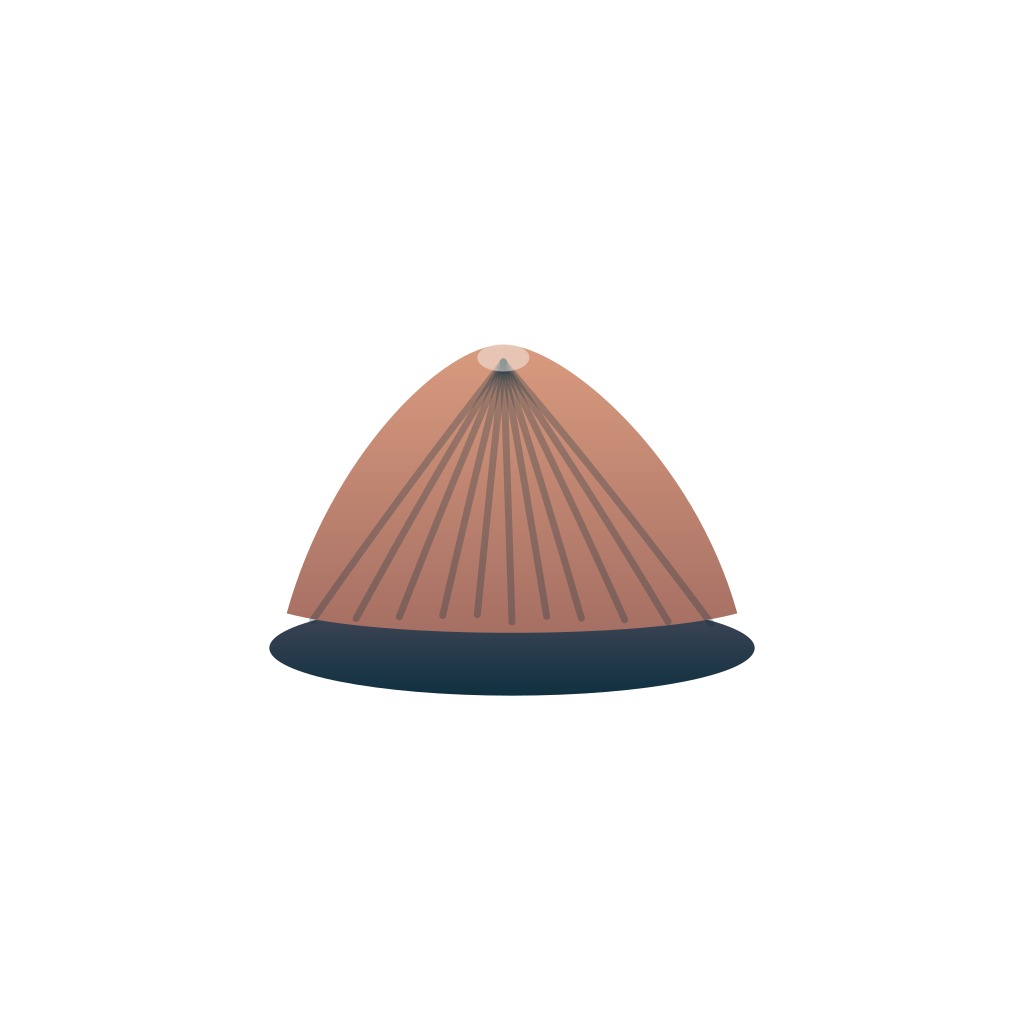
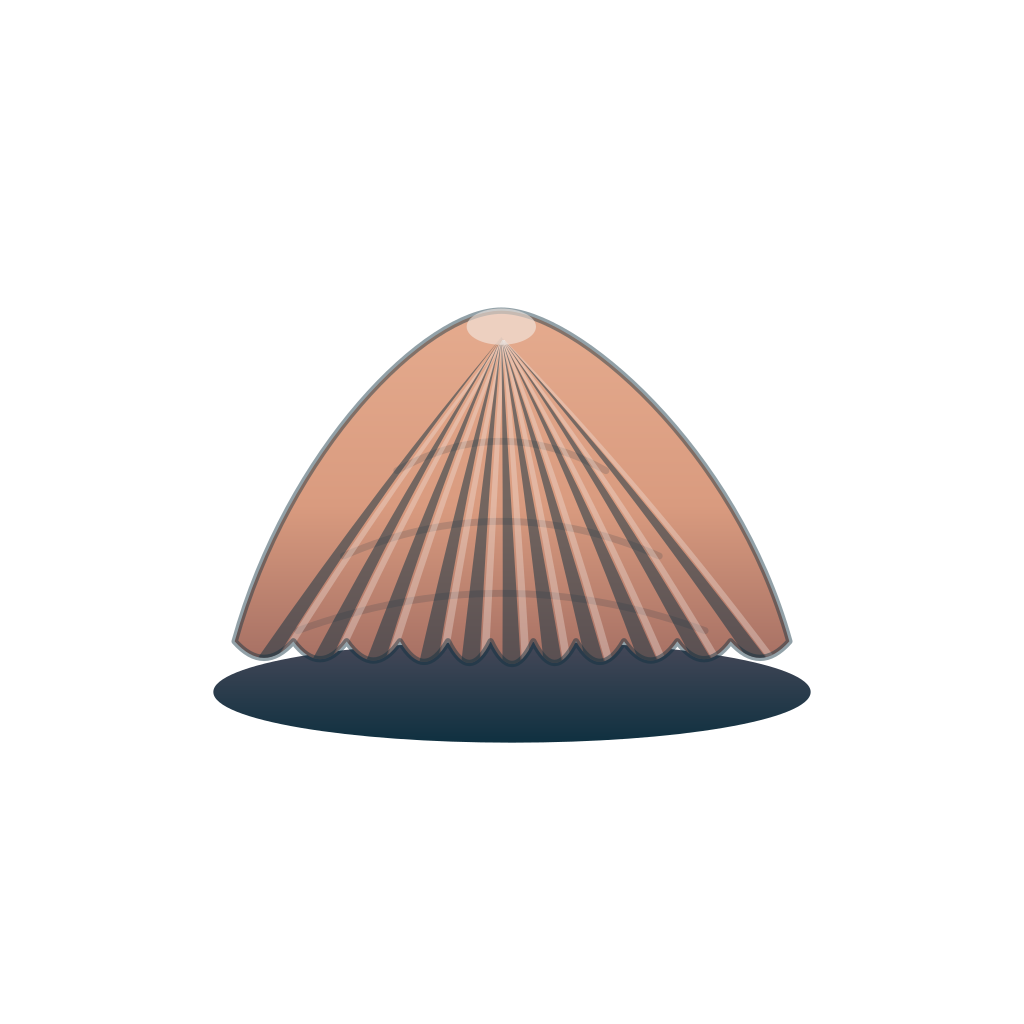
Bigger, ribbed shell mascot
- Tapered ribs with highlights, scalloped rim and growth rings; same palette
- Larger shell in app icon, splash, favicon and Android foreground
- Lock screen image bumped to v2 so devices replace the cached copy
- In-app ShellMark mirrors shell.svg; header shell slightly larger

Changed region(s): [[0.1875, 0.2812, 0.8125, 0.75]]

diff --git a/src/components/Shell.tsx b/src/components/Shell.tsx
@@ -7,12 +7,16 @@ import Animated, {
   withRepeat,
   withTiming,
 } from 'react-native-reanimated';
-import Svg, { Defs, Ellipse, G, LinearGradient, Path, Stop } from 'react-native-svg';
+import Svg, { ClipPath, Defs, Ellipse, G, LinearGradient, Path, Stop } from 'react-native-svg';
 
 import { palette } from '@/theme';
 
-// Rib end points along the shell's rim, fanning out from the apex.
-const RIBS = [14, 24, 34, 44, 52, 60, 68, 76, 86, 96, 106];
+// Geometry mirrors assets/mascot/shell.svg (the source of the icon, splash and lock screen PNGs):
+// change both together. Ribs are tapered wedges from the apex to the scalloped rim.
+const BODY = "M8 76 C 18 40, 44 14, 58 14 C 72 14, 102 40, 112 76 Q 106.5 82.2 101 76 Q 96.0 82.7 91 76 Q 86.0 83.2 81 76 Q 76.5 83.7 72 76 Q 68.0 84.1 64 76 Q 60.0 84.5 56 76 Q 52.0 84.1 48 76 Q 43.5 83.7 39 76 Q 34.0 83.2 29 76 Q 24.0 82.7 19 76 Q 13.5 82.2 8 76 Z";
+const RINGS = ["M38.4 44 Q 58 33 77.6 44", "M28.4 60 Q 58 47 87.6 60", "M19.8 74 Q 58 60 96.2 74"];
+const RIBS = ["M58 19 Q 35.4 46 12.2 79.3 L 15.8 79.3 Q 36.6 46 58 19 Z", "M58 19 Q 40.4 46 22.2 80.1 L 25.8 80.1 Q 41.6 46 58 19 Z", "M58 19 Q 45.4 46 32.2 80.9 L 35.8 80.9 Q 46.6 46 58 19 Z", "M58 19 Q 50.4 46 42.2 81.7 L 45.8 81.7 Q 51.6 46 58 19 Z", "M58 19 Q 54.4 46 50.2 82.4 L 53.8 82.4 Q 55.6 46 58 19 Z", "M58 19 Q 58.4 46 58.2 83.0 L 61.8 83.0 Q 59.6 46 58 19 Z", "M58 19 Q 62.4 46 66.2 82.4 L 69.8 82.4 Q 63.6 46 58 19 Z", "M58 19 Q 66.4 46 74.2 81.7 L 77.8 81.7 Q 67.6 46 58 19 Z", "M58 19 Q 71.4 46 84.2 80.9 L 87.8 80.9 Q 72.6 46 58 19 Z", "M58 19 Q 76.4 46 94.2 80.1 L 97.8 80.1 Q 77.6 46 58 19 Z", "M58 19 Q 81.4 46 104.2 79.3 L 107.8 79.3 Q 82.6 46 58 19 Z"];
+const RIB_HIGHLIGHTS = ["M58.2 19.5 Q 37.2 46 16.0 79.3 L 17.5 79.3 Q 38.4 46 58.6 19.5 Z", "M58.2 19.5 Q 42.2 46 26.0 80.1 L 27.5 80.1 Q 43.4 46 58.6 19.5 Z", "M58.2 19.5 Q 47.2 46 36.0 80.9 L 37.5 80.9 Q 48.4 46 58.6 19.5 Z", "M58.2 19.5 Q 52.2 46 46.0 81.7 L 47.5 81.7 Q 53.4 46 58.6 19.5 Z", "M58.2 19.5 Q 56.2 46 54.0 82.4 L 55.5 82.4 Q 57.4 46 58.6 19.5 Z", "M58.2 19.5 Q 60.2 46 62.0 83.0 L 63.5 83.0 Q 61.4 46 58.6 19.5 Z", "M58.2 19.5 Q 64.2 46 70.0 82.4 L 71.5 82.4 Q 65.4 46 58.6 19.5 Z", "M58.2 19.5 Q 68.2 46 78.0 81.7 L 79.5 81.7 Q 69.4 46 58.6 19.5 Z", "M58.2 19.5 Q 73.2 46 88.0 80.9 L 89.5 80.9 Q 74.4 46 58.6 19.5 Z", "M58.2 19.5 Q 78.2 46 98.0 80.1 L 99.5 80.1 Q 79.4 46 58.6 19.5 Z", "M58.2 19.5 Q 83.2 46 108.0 79.3 L 109.5 79.3 Q 84.4 46 58.6 19.5 Z"];
 
 /** The Limpet mark: a ribbed cone shell clinging to a rock. */
 export function ShellMark({ size = 120 }: { size?: number }) {
@@ -20,22 +24,39 @@ export function ShellMark({ size = 120 }: { size?: number }) {
     <Svg width={size} height={size * 0.8} viewBox="0 0 120 96">
       <Defs>
         <LinearGradient id="shell" x1="0" y1="0" x2="0" y2="1">
-          <Stop offset="0" stopColor={palette.coral} />
+          <Stop offset="0" stopColor="#E5AB8E" />
+          <Stop offset="0.55" stopColor={palette.coral} />
           <Stop offset="1" stopColor={palette.clay} />
         </LinearGradient>
         <LinearGradient id="rock" x1="0" y1="0" x2="0" y2="1">
           <Stop offset="0" stopColor={palette.slate} />
           <Stop offset="1" stopColor={palette.abyss} />
         </LinearGradient>
+        <ClipPath id="body">
+          <Path d={BODY} />
+        </ClipPath>
       </Defs>
-      <Ellipse cx={60} cy={84} rx={56} ry={11} fill="url(#rock)" />
-      <Path d="M8 76 C 18 40, 44 14, 58 14 C 72 14, 102 40, 112 76 C 90 82, 30 82, 8 76 Z" fill="url(#shell)" />
-      <G stroke={palette.abyss} strokeOpacity={0.28} strokeWidth={1.6} strokeLinecap="round">
-        {RIBS.map((x) => (
-          <Path key={x} d={`M58 18 Q ${(58 + x) / 2} 46 ${x} ${78 - Math.abs(x - 60) * 0.08}`} fill="none" />
-        ))}
+      <Ellipse cx={60} cy={85.5} rx={56} ry={9.5} fill="url(#rock)" />
+      <Path d={BODY} fill="url(#shell)" />
+      <G clipPath="url(#body)">
+        <G stroke={palette.abyss} strokeOpacity={0.16} strokeWidth={1.3} strokeLinecap="round" fill="none">
+          {RINGS.map((d) => (
+            <Path key={d} d={d} />
+          ))}
+        </G>
+        <G fill="#F4E9E2" fillOpacity={0.34}>
+          {RIB_HIGHLIGHTS.map((d) => (
+            <Path key={d} d={d} />
+          ))}
+        </G>
+        <G fill={palette.abyss} fillOpacity={0.5}>
+          {RIBS.map((d) => (
+            <Path key={d} d={d} />
+          ))}
+        </G>
       </G>
-      <Ellipse cx={58} cy={17} rx={6} ry={3.2} fill="#F4E9E2" fillOpacity={0.55} />
+      <Path d={BODY} fill="none" stroke={palette.abyss} strokeOpacity={0.45} strokeWidth={1.2} strokeLinejoin="round" />
+      <Ellipse cx={58} cy={17} rx={6.5} ry={3.4} fill="#F4E9E2" fillOpacity={0.6} />
     </Svg>
   );
 }

diff --git a/src/app/(tabs)/index.tsx b/src/app/(tabs)/index.tsx
@@ -49,7 +49,7 @@ export default function TodayScreen() {
       showsVerticalScrollIndicator={false}>
       <Animated.View entering={FadeInDown.duration(600)} style={styles.brandRow}>
         <View style={styles.brand}>
-          <FloatingShell size={40} />
+          <FloatingShell size={48} />
           <Text style={styles.wordmark}>Limpet</Text>
         </View>
         {isLiveActivitySupported ? (

diff --git a/src/live-activity/mascot.ios.ts b/src/live-activity/mascot.ios.ts
@@ -4,7 +4,7 @@ import { widgetsDirectory } from 'expo-widgets';
 
 // The widget extension runs in its own process and cannot reach the app bundle, so the
 // mascot PNG is copied once into the shared widgets directory (an App Group container).
-const FILE_NAME = 'limpet-shell-v1.png';
+const FILE_NAME = 'limpet-shell-v2.png';
 
 let pending: Promise<string | null> | null = null;
 
